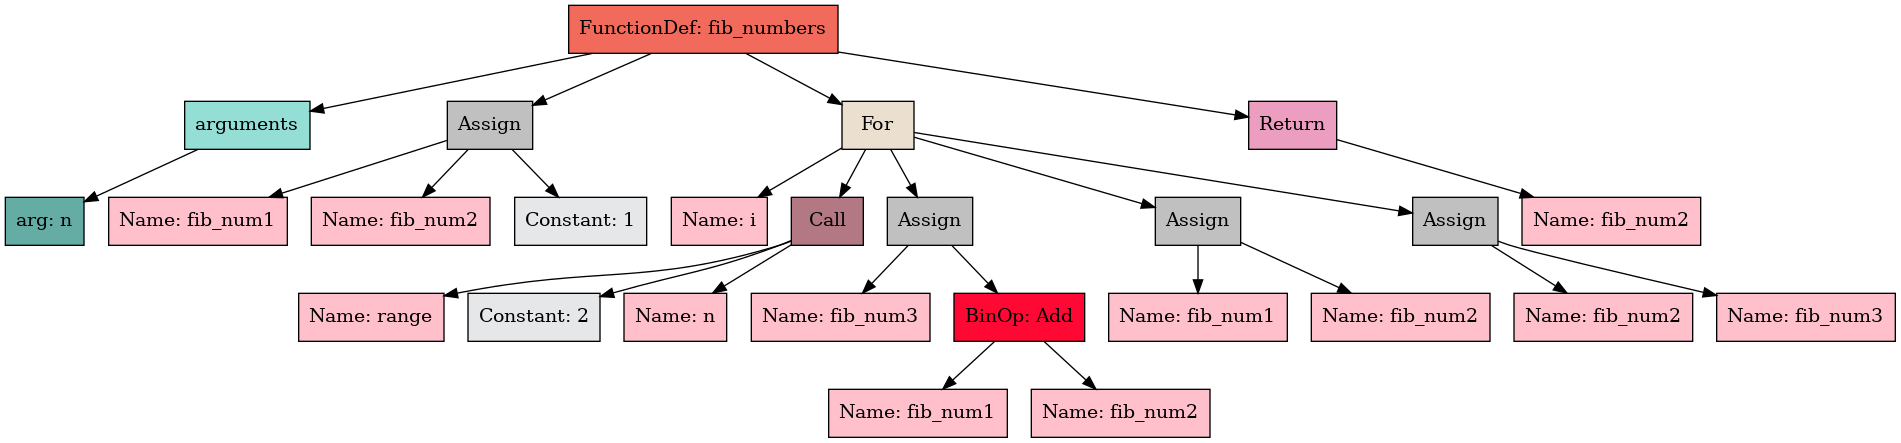
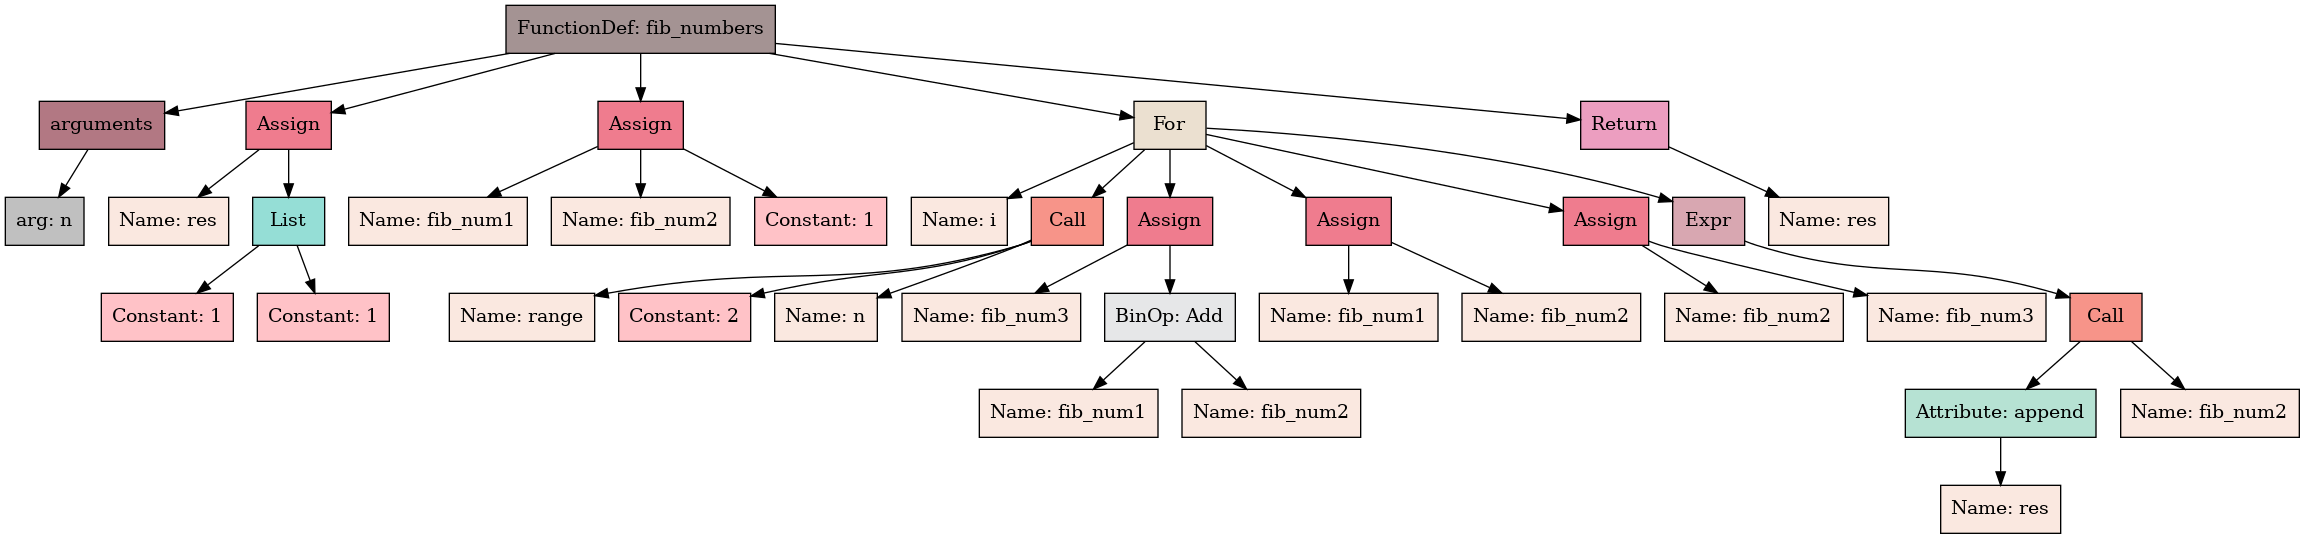
Fix ast & colors

diff --git a/hw_1/ast_vizitor.py b/hw_1/ast_vizitor.py
@@ -7,7 +7,7 @@ class ASTVisitor(ast.NodeVisitor):
         self.graph = nx.DiGraph()
 
     def visit_FunctionDef(self, node):
-        self.graph.add_node(node, shape='box', label=f'FunctionDef: {node.name}', fillcolor='#F26A5B', style='filled')
+        self.graph.add_node(node, shape='box', label=f'FunctionDef: {node.name}', fillcolor='#A49393', style='filled')
         for arg in self.visit(node.args):
             self.graph.add_edge(node, arg)
         for item in node.body:
@@ -15,26 +15,26 @@ class ASTVisitor(ast.NodeVisitor):
         return node
 
     def visit_arguments(self, node):
-        self.graph.add_node(node, shape='box', label='arguments', fillcolor='#95DED6', style='filled')
+        self.graph.add_node(node, shape='box', label='arguments', fillcolor='#B27883', style='filled')
         for arg in node.args:
-            self.graph.add_node(arg, shape='box', label=f'arg: {arg.arg}', fillcolor='#64ACA4', style='filled')
+            self.graph.add_node(arg, shape='box', label=f'arg: {arg.arg}', fillcolor='grey', style='filled')
             self.graph.add_edge(node, arg)
         return [node]
 
     # body
     def visit_Assign(self, node):
-        self.graph.add_node(node, shape='box', label='Assign', fillcolor='grey', style='filled')
+        self.graph.add_node(node, shape='box', label='Assign', fillcolor='#EF7C8E', style='filled')
         for t in node.targets:
             self.graph.add_edge(node, self.visit(t))
         self.graph.add_edge(node, self.visit(node.value))
         return node
 
     def visit_Name(self, node):
-        self.graph.add_node(node, shape='box', label=f'Name: {node.id}', fillcolor='pink', style='filled')
+        self.graph.add_node(node, shape='box', label=f'Name: {node.id}', fillcolor='#FAE8E0', style='filled')
         return node
 
     def visit_Constant(self, node):
-        self.graph.add_node(node, shape='box', label=f'Constant: {node.value}', fillcolor='#E6E7E8', style='filled')
+        self.graph.add_node(node, shape='box', label=f'Constant: {node.value}', fillcolor='#FFC2C7', style='filled')
         return node
 
     def visit_For(self, node):
@@ -46,14 +46,14 @@ class ASTVisitor(ast.NodeVisitor):
         return node
 
     def visit_Call(self, node):
-        self.graph.add_node(node, shape='box', label='Call', fillcolor='#B27883', style='filled')
+        self.graph.add_node(node, shape='box', label='Call', fillcolor='#F79489', style='filled')
         self.graph.add_edge(node, self.visit(node.func))
         for arg in node.args:
             self.graph.add_edge(node, self.visit(arg))
         return node
 
     def visit_BinOp(self, node):
-        self.graph.add_node(node, shape='box', label=f'BinOp: {type(node.op).__name__}', fillcolor='#FF0833',
+        self.graph.add_node(node, shape='box', label=f'BinOp: {type(node.op).__name__}', fillcolor='#E6E7E8',
                             style='filled')
         self.graph.add_edge(node, self.visit(node.left))
         self.graph.add_edge(node, self.visit(node.right))
@@ -63,3 +63,27 @@ class ASTVisitor(ast.NodeVisitor):
         self.graph.add_node(node, shape='box', label='Return', fillcolor='#EC9EC0', style='filled')
         self.graph.add_edge(node, self.visit(node.value))
         return node
+
+    def visit_Expr(self, node):
+        self.graph.add_node(node, shape='box', label="Expr", fillcolor='#D8A7B1', style='filled')
+        self.graph.add_edge(node, self.visit(node.value))
+        return node
+
+    def visit_Attribute(self, node):
+        self.graph.add_node(node, shape='box', label=f'Attribute: {node.attr}', fillcolor='#B6E2D3', style='filled')
+        self.graph.add_edge(node, self.visit(node.value))
+        return node
+
+    def visit_List(self, node):
+        self.graph.add_node(node, shape='box', label='List', fillcolor='#95DED6', style='filled')
+        for elt in node.elts:
+            self.graph.add_edge(node, self.visit(elt))
+        return node
+
+    # def visit_Load(self, node):
+    #     self.graph.add_node(node, shape='box', label='Load')
+    #     return node
+
+    # def visit_Store(self, node):
+    #     self.graph.add_node(node, shape='box', label='Store')
+    #     return node
